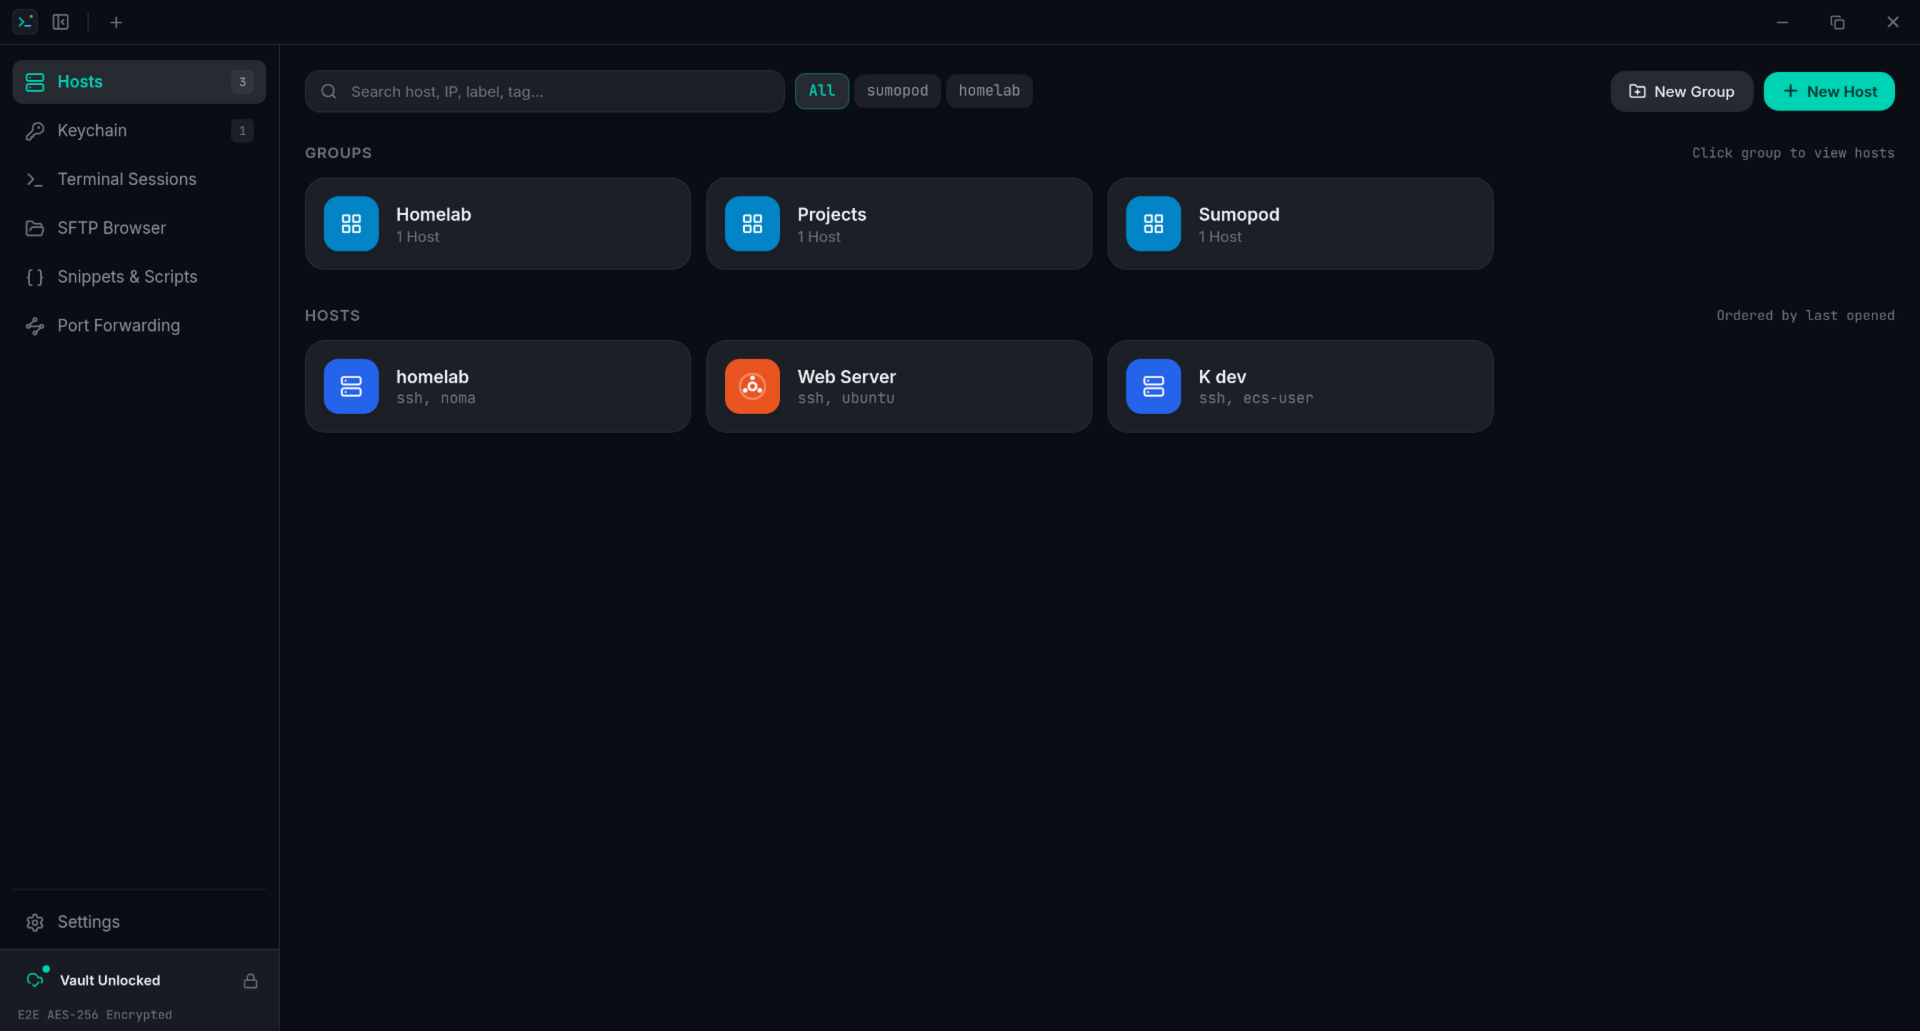
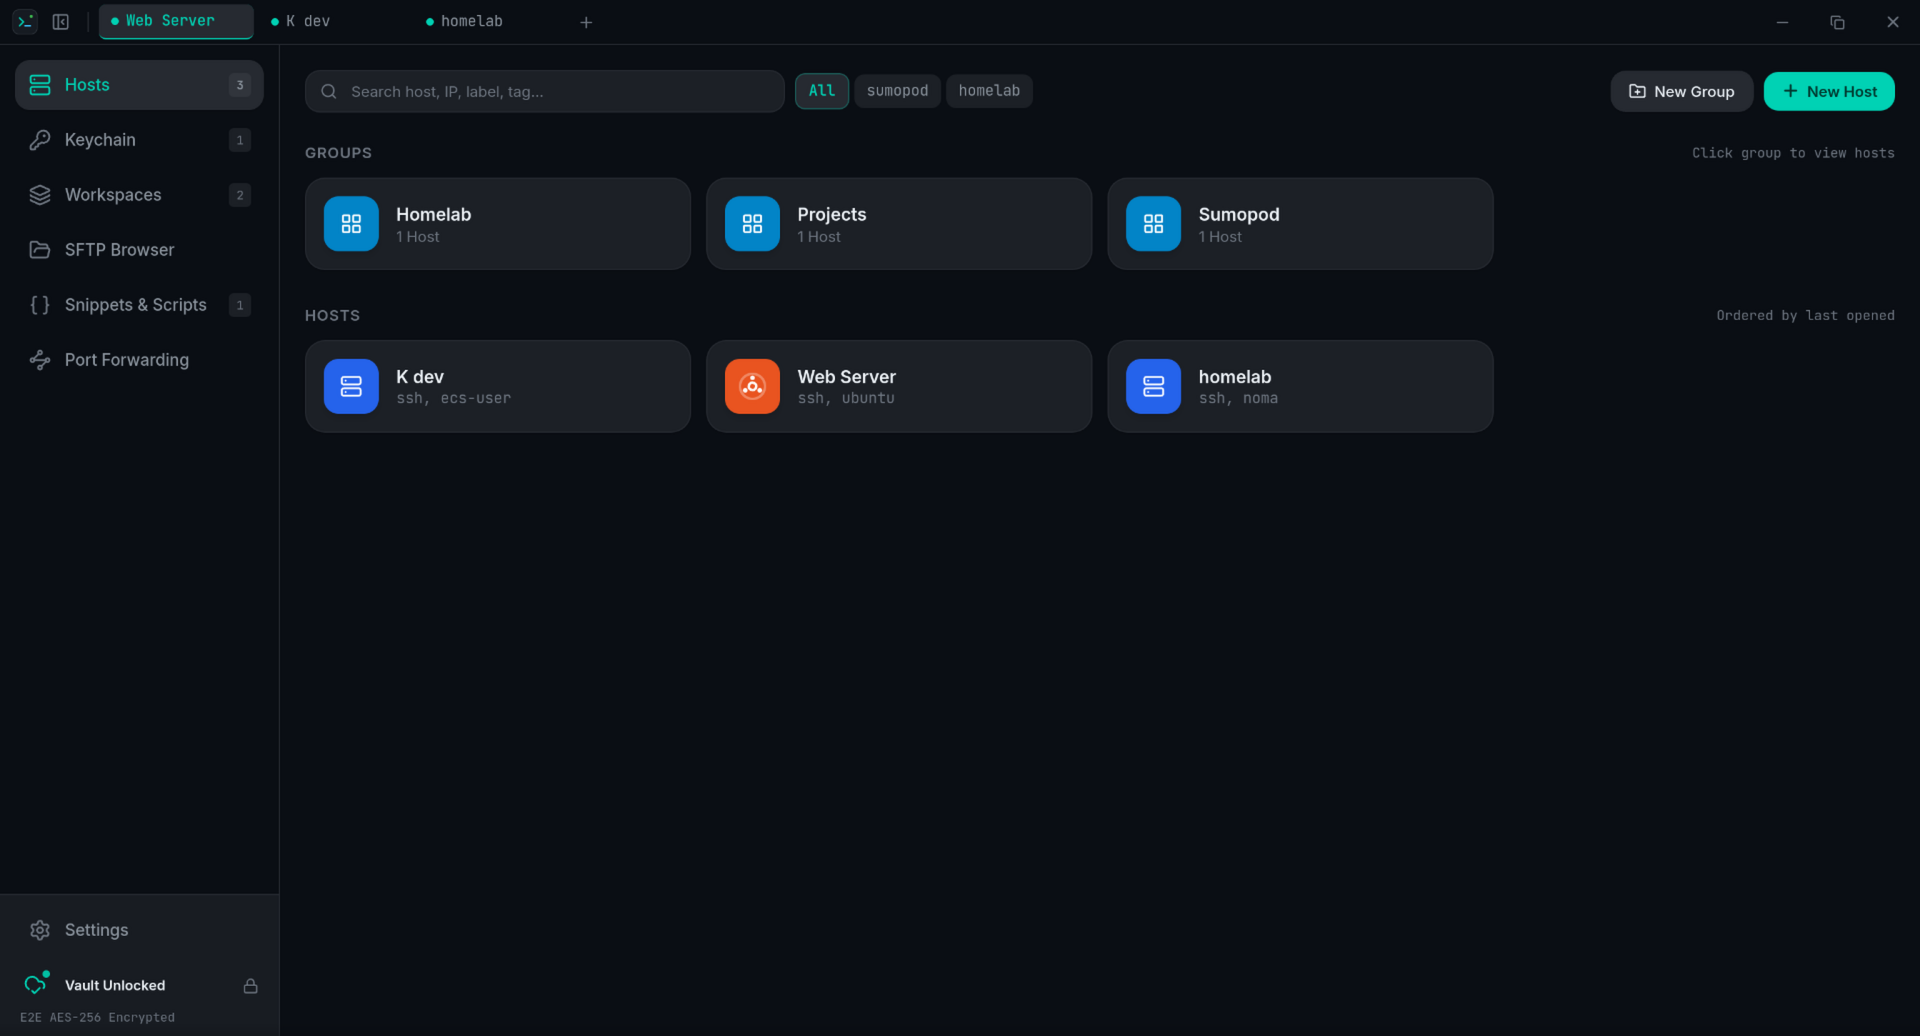
docs(readme): update overview screenshot and document workspaces features

diff --git a/README.md b/README.md
@@ -51,10 +51,16 @@ Prebuilt installers for every release are published automatically to the **[GitH
 
 ### 🖥 Native Terminal Experience
 - **Async Rust SSH Engine**: Multi-tab terminal powered by `russh` and `@xterm/xterm` 6.
-- **Split Panes & Multi-Terminal Workspace**: Split terminals in any direction with resizable dividers, tab drag-and-drop, and auto-grouping tabs (`Web Server (2)`).
+- **Split Panes & Dynamic Layouts**: Split terminals in any direction with resizable dividers, tab drag-and-drop, and auto-grouping tabs (`Web Server (2)`).
 - **Terminal Interconnection & Input Broadcast**: One-click synchronized input across all split panes (`SYNC` toggle / `Alt+B`) to broadcast keystrokes and run commands simultaneously across multiple servers.
 - **Session Geometry Protection**: Background tabs stay mounted without collapsing to 0×0 geometry, preventing remote `htop`, `vim`, and curses TUIs from corrupting due to bogus SIGWINCH events.
 - **Quick Connect**: Instant fuzzy-search launcher accessible anywhere with `Ctrl+K`.
+
+### 🗂 Workspaces & Multi-Server Cluster Launcher
+- **Multi-Server Layout Presets**: Design and save complex multi-terminal split layouts (Single, Vertical 2-way, Horizontal 2-way, 3-way, 4-way Grid, 6-way Matrix) with assigned hosts for each pane.
+- **1-Click Cluster Launcher**: Atomic multi-session launcher connects to all target machines simultaneously and arranges them into their pre-configured split panes with zero layout jitter.
+- **Interactive Blueprint Designer**: Visual layout designer to preview blueprints, assign hosts to panes, and customize workspace tags and colors.
+- **Save Active Split as Preset**: Snapshot your current live split layout and open SSH sessions into a reusable workspace preset with a single click.
 
 ### 📂 Dual-Pane SFTP & In-App Code Editor
 - **Seamless Transfers**: Dual-pane local ↔ remote browser with fast click-to-transfer navigation.
@@ -225,6 +231,7 @@ termimus/
 │   │   ├── layout/               # Header, Sidebar, QuickConnect, ConfirmModal
 │   │   ├── hosts/                # Host management, folder tree, latency badges
 │   │   ├── terminal/             # Xterm.js terminal view & session tabs
+│   │   ├── workspaces/           # Multi-server layout presets & cluster launcher
 │   │   ├── sftp/                 # Dual-pane browser & remote code editor
 │   │   ├── keychain/             # KeyModal, IdentityModal, public key derivation
 │   │   ├── tunnels/              # Port forwarding manager
